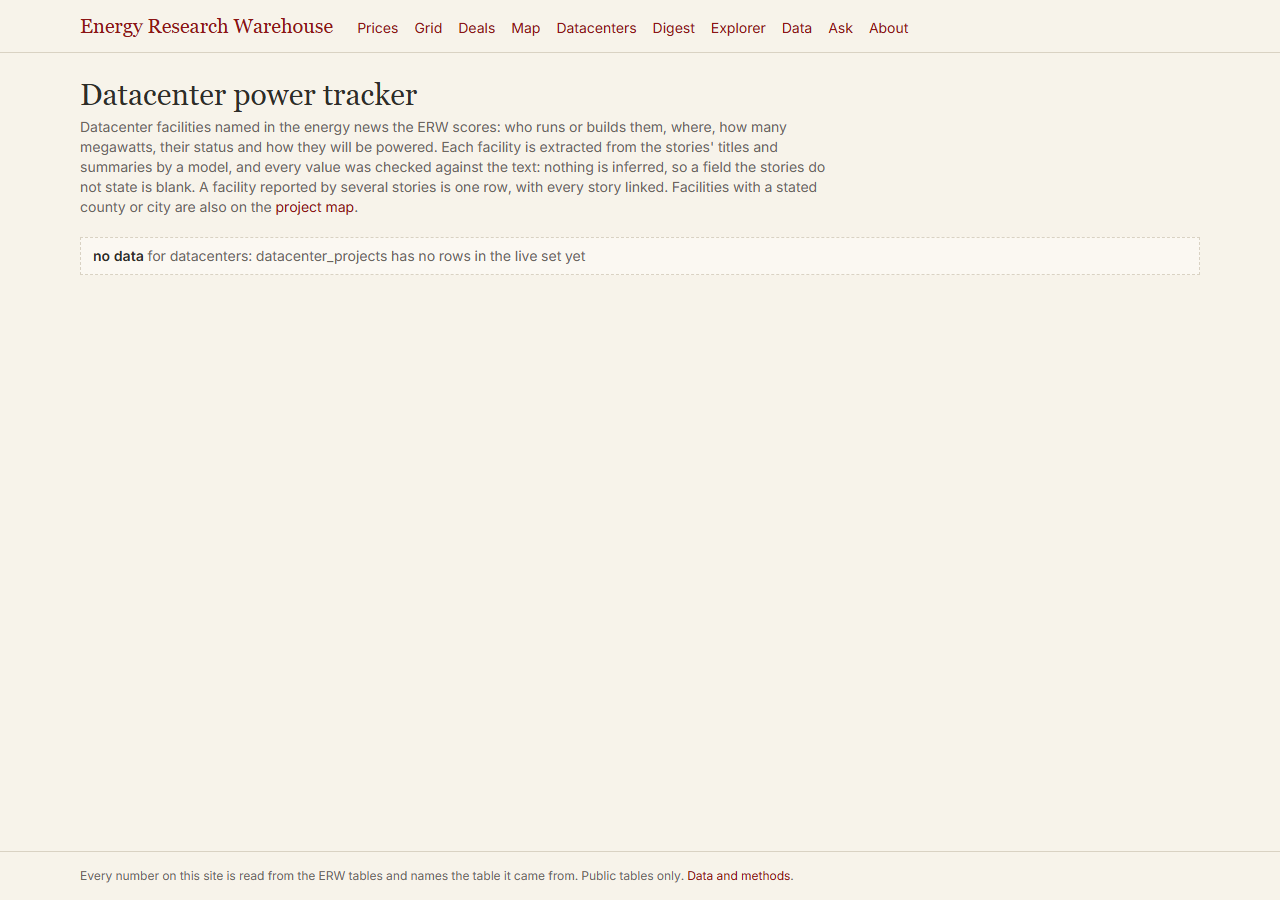
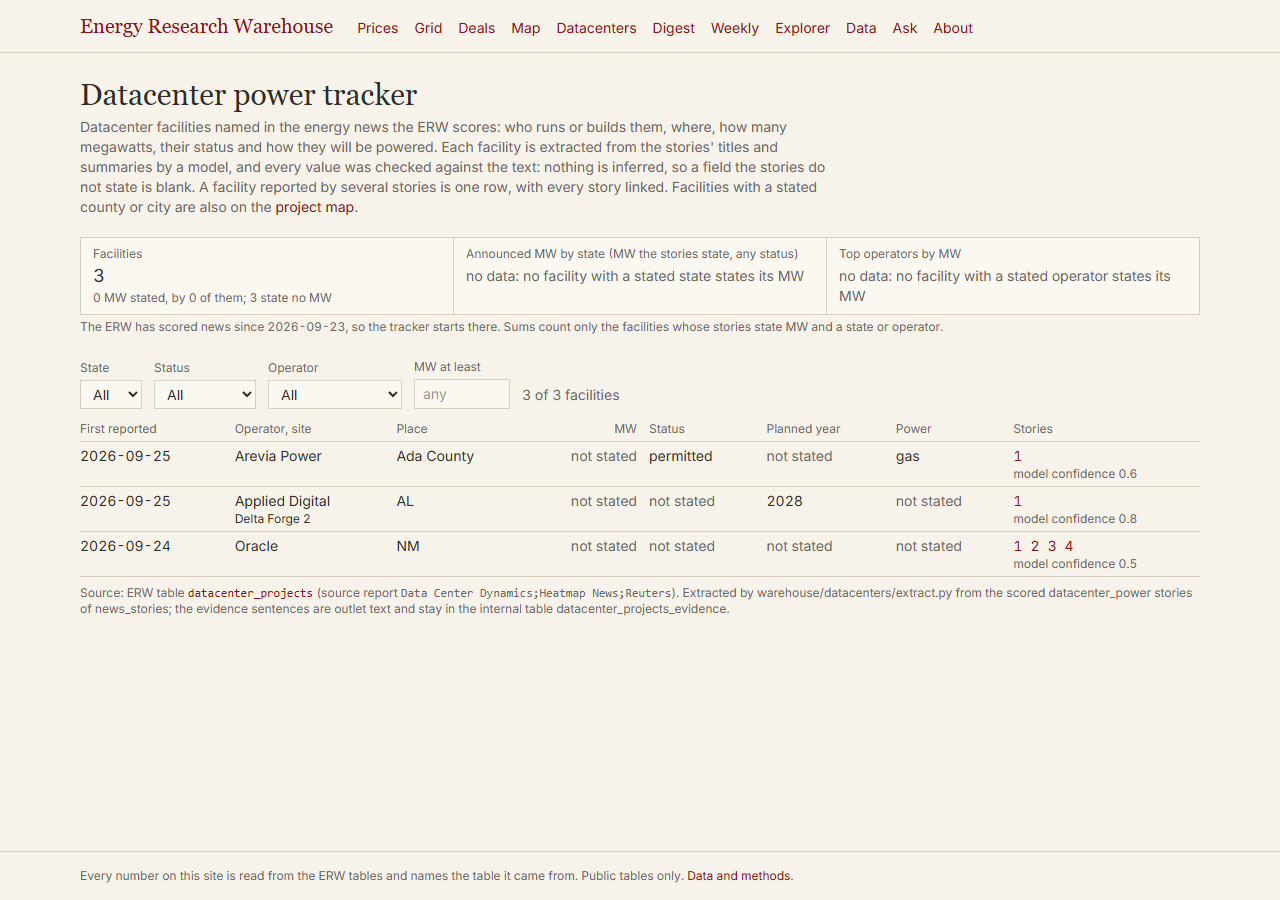
Session 17 Task 5: screenshots, STATUS.md, report
Screenshots of /weekly (new), /datacenters and home; STATUS.md regenerated;
SESSION_17_REPORT.md. API spend this session: USD 0.0407.

diff --git a/SESSION_17_REPORT.md b/SESSION_17_REPORT.md
@@ -1,0 +1,156 @@
+# Session 17 report
+
+Energy Research Warehouse (ERW), session 17, run 2026-09-27 (UTC). **API spend this session: USD 0.0407**, far under the USD 15 stop. No key was printed or committed. The session merged GitHub's daily-run commit, then pushed.
+
+**Three things to know first:**
+- **Task 1 could not be built as written.** ERCOT publishes no list of large-load requests with MW, county, status and dates. The rule that created its status report (Protocol 3.2.7, NPRR1267) requires the report to aggregate requests, with at least three customers per category. Nothing was invented. Instead, a connector watches ERCOT's page weekly and fails loudly until a request-level file appears.
+- **Task 2 stopped halfway.** The news backfill made all 1,512 queries (47,578 items, 0 failed), then Claude Code stopped it because the machine was critically low on memory. As its notice instructed, I did not restart it. Nothing was ingested, scored or extracted. The saved responses allow a restart without querying Google again (commands below).
+- **The Supabase load was not attempted.** It was refused last session. The value check ran against what CI loaded, and all 254 values matched.
+
+## What was built
+
+| Task | Result | API cost | Commit |
+|---|---|---|---|
+| 1 | `warehouse/connectors/ercot_large_load.py`: watches ERCOT's Large Load Integration page; no table (no request-level source) | 0 | `9ccb885` |
+| 2 | `ingest.py --backfill` and `--from-raw`; the backfill run stopped before scoring | 0 | `e5b2920` |
+| 3 | "Energy Week": `warehouse/news/weekly.py`, the Monday workflow, `/weekly`, 2026-W39 | 0.0055 | `e1f4ca9` |
+| 4 | Datacenter status rulings and re-extraction; exact-decimal means; `/weekly` value check; briefing, coverage and live set; platform tools 4 and 14 | 0.0298 + 0.0054 | `2deeeca` |
+| 5 | Screenshots, STATUS.md, this report | 0 | final commit |
+
+## Task 1: ERCOT large-load queue
+
+**What I looked for:** the current ERCOT file, as the prompt says. What exists:
+- **Protocol 3.2.7** (NPRR1267, approved 2025-07-31) requires a monthly Large Load Interconnection Status Report. It aggregates by location, load zone, TSP, load type, request date, energization date and size range, with at least three customers per category, because customer data is confidential.
+- **The report ERCOT actually posts** is a slide deck, "Large Load Interconnection Status Update" (for example `https://www.ercot.com/files/docs/2026/03/12/March-TAC-Report.pdf`). Its numbers are chart images, not text, with no county and no request rows.
+- **"ERCOT Monthly"** states queue totals in prose in only 2 of its 16 issues from February 2025 to June 2026 (November 2025 and April 2026). For example, April 2026: 445.8 GW applied by 2033, of which 321 GW with no studies submitted, 93.7 GW under ERCOT review, 22 GW with Section 9.5 requirements met, 5.9 GW observed energized, and 3.2 GW approved to energize but not operational. That is too irregular for a series.
+- **The Large Load Integration page** links 3 spreadsheets: the Batch Zero Load Information Form, a FAQ, and an RFI exhibit list.
+
+**Decision.** With no rows to publish, there is no `ercot_large_load_queue` table and nothing to merge into `datacenter_projects` or `energy_projects`. `ercot_large_load.py`:
+- reads the Large Load Integration page each week and keeps it raw;
+- looks for a spreadsheet named as a status report or queue;
+- **if there is none**, fails with the reason above and writes nothing. This week's run did exactly that;
+- **if one appears**, reads it into `ercot_large_load_queue`, requiring a county and a MW column, with a harmonized status mapped from ERCOT's status words.
+
+It runs weekly in `run_daily.sh` beside the ISO queues. A coverage rule and a live-set rule are ready for the table.
+
+**Expect a streak issue:** a connector failing three runs in a row opens a GitHub issue, so after three Mondays this one will open one. Close it, or rule it a known source gap, as for SPP and CARB.
+
+## Task 2: news backfill
+
+**`ingest.py --backfill`:**
+- **Queries:** every Google News feed in `feeds.yaml` (18 of them) keeps its `site:` filter and gets one sector's search terms (`BACKFILL_TERMS`: datacenter_power, deal, ppa, nuclear, lng, transmission, policy) and one month's `after:` and `before:` bounds, from 2025-10-01 to 2026-09-22. That is 1,512 queries, one at a time.
+- **Filtering:** stories dated outside the range are dropped; the rest are deduplicated as in the daily ingest, by URL and near-identical title.
+- **The cap:** at most 3,000 stories, taken round-robin over the 84 month-and-sector buckets, so the cap spreads over the whole year.
+- **Provenance:** `feed` records the query that found each story, for example `Reuters energy (via Google News) [backfill lng 2026-01]`.
+
+**A trial** (lng, January 2026, 18 queries) found 325 new stories, mostly from Bloomberg (98), Reuters (94), JPT (36) and the FT (28).
+
+**The run (`20260927T033451Z`).** All 1,512 queries succeeded:
+
+| Sector | Items |
+|---|---|
+| policy | 11,410 |
+| transmission | 9,431 |
+| deal | 8,588 |
+| nuclear | 6,277 |
+| datacenter_power | 5,427 |
+| lng | 5,000 |
+| ppa | 1,445 |
+| **Total** | **47,578** |
+
+While it was deduplicating, Claude Code stopped it for low memory. The stories are written only at the end, so `news_stories.csv` was untouched, and no digest was written. The raw responses are kept in `warehouse/raw/news/20260927T033451Z/`, which the 14-day prune will remove after 2026-10-11.
+
+**Added so the work is not lost:** `--from-raw RUN_ID` rebuilds the same items from those saved responses, with no new queries. Tested: all 1,512 responses give the same 47,578 items in 84 buckets.
+
+**Not reported, because the run did not reach them:** story, cluster, deal and facility counts, and cost.
+- **Estimated cost:** about USD 5 to 6 to score 3,000 stories (at session 16's measured rate), plus about USD 2 to 3 for the two extractors.
+
+**To finish,** when memory allows (the dedup step is the slow, heavy one):
+
+    python warehouse/news/ingest.py --backfill --from-raw 20260927T033451Z
+    python warehouse/news/score.py --days 400 --max-calls 70
+    python warehouse/deals/extract.py --max-calls 200
+    python warehouse/datacenters/extract.py --max-calls 100
+
+## Task 3: Energy Week (tool 14)
+
+**`warehouse/news/weekly.py`** writes `docs/weekly/YYYY-Www.md` and `latest.md` for an ISO week (Monday to Monday, UTC, cut at the run time):
+
+| Section | What it holds |
+|---|---|
+| The five stories of the week | the highest-significance clusters. The model writes only the five headlines; the whys are the stories' scored why lines |
+| Deals of the week | every `energy_deals` row dated in the week |
+| Datacenter announcements | every `datacenter_projects` facility first reported in the week |
+| Numbers of the week | read through `erw`, each with its table: the day-ahead average per ISO main hub over the ISO's local week, and the change from the week before (both weeks must be complete); the highest real-time price of the week, where, and how far each table reaches; Henry Hub, WTI and Brent (last close of the week, last close before it, change); US48 peak demand of the week and its hour |
+
+**Schedule:** `.github/workflows/weekly-brief.yml` runs Mondays at 13:00 UTC, separate from the daily run. The runner has no tables, so it first restores the rolling windows from the Redivis draft and pulls the EIA fuel prices. It commits `docs/weekly` with the daily run's pull-then-commit step. Not yet run on GitHub.
+
+**Site:** `/weekly` (the newest brief and an archive) and `/weekly/[week]`, with nav and home links.
+
+**2026-W39 was generated** (to Sunday 04:42 UTC), after refreshing the local ISO and fuel tables:
+- **Scale:** 845 stories in 747 clusters, 27 deals, 3 datacenter facilities.
+- **Five stories:** TotalEnergies' Absheron FID; Oracle's force majeure; Applied Digital's Alabama datacenter; DOE's USD 1.9 billion for 31 grid projects; Anthropic's cloud deal with Akamai.
+- **Day-ahead averages** fell against the prior week at MISO (-34.92), SPP (-12.48), ISO-NE (-8.18) and NYISO (-6.61), and rose at ERCOT (+1.94) and CAISO (+0.05).
+- **The fuel closes** are those of Monday 2026-09-22, the newest EIA publishes.
+
+## Task 4
+
+**Datacenter status rulings.** The prompt now has an `applied` status (an application filed, not yet granted, which maps to the standard status planned). It also requires the words that state a status, as the code already did.
+
+**Re-extraction:** `extract.py --reextract` over all 28 datacenter stories, 3 calls, USD 0.0298.
+- **Counts:** 3 facilities before and 3 after.
+- **Statuses:** before, permitted 1 and blank 2; after, applied 1, announced 1 and blank 1.
+- **All three session 16 spot-check errors are fixed:**
+  - Arevia Power went from permitted to applied;
+  - its state went from blank to ID (Idaho), so it is now placed at the Ada County point;
+  - Delta Forge 2 went from blank to announced.
+- **Still wrong:** Arevia Power remains the operator as well as the developer, the third error from session 16.
+- **Unchanged:** Oracle (New Mexico).
+- **Kept:** the session 16 tables, in `warehouse/datacenters/history/`.
+
+**Rounding fix.** The first value check found `/weekly` showing 44.29 for ISO-NE's prior week. Supabase gave 44.30, and the exact mean is 44.295: a float sum had landed just under the half.
+- **Fix:** the digest and the weekly brief now compute day-ahead means in exact decimal arithmetic, rounded half up (`brief.mean2`), and the checker does the same.
+- **Result:** the brief was regenerated (USD 0.0054). The weekly changes are now differences of the means as displayed.
+
+**Value check.** `check-values.mjs` now parses `/weekly` and recomputes its 20 numbers from Supabase: 12 weekly day-ahead means, 6 fuel closes, the real-time peak, and the US48 peak with its hour.
+- **Result: 254 of 254 values match**, including 20 of 20 on `/weekly` and 3 on `/datacenters`.
+- **`/map` contributes none,** because Supabase has no `energy_projects` rows (next section).
+
+**What GitHub's daily run 4 did** (manually dispatched on session 16's code; merged here):
+- **The commit step succeeded,** so the session 16 fix works on GitHub.
+- **It loaded:** `energy_deals` (27 rows) and `datacenter_projects` (3, the session 16 version).
+- **It skipped `energy_projects`:** NYISO's queue answered HTTP 202 (the same response the CARB PDF gives), so an input was missing.
+- **`supabase_load` exited 1.** The reason is in the run's log artifact, which needs a GitHub login.
+
+**Also:**
+- `llms.txt` and the chat spec now describe the new datacenter statuses, the weekly brief, and the ERCOT large-load gap.
+- Coverage and the live set have rules for `ercot_large_load_queue`.
+- The validator passes every changed table, and coverage is rebuilt.
+- `docs/platform-tools.md` has tools 4 and 14.
+
+## Task 5
+
+- **Screenshots:** `weekly-desktop.png` and `-mobile.png` (new), plus `datacenters-*` and `home-*` (re-shot).
+- **STATUS.md** regenerated.
+
+## Decisions
+
+1. **No ERCOT large-load table and no merges** (Task 1): there is no request-level source, and aggregates cannot be placed on a map as projects.
+2. **The weekly brief has its own workflow** at the requested hour. The daily run starts at 14:00, and putting the brief in it would move the brief's time.
+3. **The backfill's queries come from the Google News feeds' `site:` filters,** plus sector terms, as the prompt says. `feed_sector` stays the feed's own beat, so the query's sector does not steer the scorer's sector.
+4. **The Task 2 extractions would use the rulings of Task 4.** They never ran, so this had no effect.
+5. **`run_status.csv` was merged as the union of rows,** and `sources.csv` by source, keeping every table of each.
+
+## Errors hit
+
+1. **The backfill was stopped for low memory** (above).
+2. **Heredoc quoting broke two patches;** they were rewritten through files.
+3. **Float rounding in the weekly means** (fixed, Task 4).
+4. **Merge conflicts on `run_status.csv` and `sources.csv`,** resolved without dropping a row.
+
+## Open questions for the human
+
+1. **Finish the backfill** with the four commands in Task 2, before 2026-10-11 when the raw responses are pruned. Expect about USD 7 to 9.
+2. **Run the daily workflow with queues when NYISO's queue answers** (it gave HTTP 202 today). Then `energy_projects` reaches Supabase and `/map` shows data. Also check why `supabase_load` exited 1 in run 4: its log is in the run's artifact.
+3. **The ERCOT large-load watch will open a streak issue after three Mondays.** Keep it as a reminder, or rule it a known gap?
+4. **The weekly workflow has not run on GitHub yet.** Its first scheduled run is Monday 2026-09-28 at 13:00 UTC; it needs the EIA, Anthropic and Redivis secrets the daily run uses.

diff --git a/STATUS.md b/STATUS.md
@@ -1,23 +1,23 @@
 # ERW status
 
-Generated 2026-09-27 03:23 UTC by `warehouse/metadata/build_status.py`, which the daily run regenerates after coverage; the daily workflow commits it. Every number below is read from `warehouse/metadata/coverage.csv`, `warehouse/metadata/run_status.csv` or Supabase.
+Generated 2026-09-27 04:47 UTC by `warehouse/metadata/build_status.py`, which the daily run regenerates after coverage; the daily workflow commits it. Every number below is read from `warehouse/metadata/coverage.csv`, `warehouse/metadata/run_status.csv` or Supabase.
 
 ## Tables
 
 | | Tables | Rows |
 |---|---|---|
-| All | 86 | 3,802,684 |
-| Public | 78 | 3,680,082 |
+| All | 86 | 3,802,681 |
+| Public | 78 | 3,680,079 |
 | Internal (never shown publicly) | 8 | 122,602 |
 
-Newest table refresh: 2026-09-27 03:19:47 UTC. Validator: 86 of 86 tables pass. Per-table detail: [`docs/coverage.md`](docs/coverage.md).
+Newest table refresh: 2026-09-27 04:31:03 UTC. Validator: 86 of 86 tables pass. Per-table detail: [`docs/coverage.md`](docs/coverage.md).
 
 ## Last runs
 
 | Workflow | Last run (UTC) | Outcome |
 |---|---|---|
 | daily prices, on GitHub | 2026-09-27 03:22 | 82 ok, 21 failed, 10 gap, 3 skipped (table results of that day) |
-| daily run, local | 2026-09-27 02:23 | 121 ok, 8 failed, 8 gap (table results of that day) |
+| daily run, local | 2026-09-27 04:42 | 137 ok, 10 failed, 10 gap (table results of that day) |
 | latest prices, every 15 minutes | 2026-09-27 00:54 | 39 hubs and zones in `latest_prices` (newest retrieval) |
 
 A table that failed is not written that day; nothing partial is. The reasons are in `warehouse/metadata/run_status.csv`.
@@ -27,9 +27,9 @@ A table that failed is not written that day; nothing partial is. The reasons are
 | Table | Run | Reason |
 |---|---|---|
 | `carb_auction_allowance_prices` | 20260927T031351Z | RuntimeError: CARB auction summary PDF failed after 4 attempts: RuntimeError('CARB auction summary PDF HTTP 202') |
-| `news_stories` | 20260927T031740Z | RuntimeError("feed Hydrogen Insight failed after 3 attempts: RuntimeError('HTTP 503')") |
+| `ercot_large_load_queue` | 20260927T033115Z | iso_prices.SourceGap: ERCOT publishes no request-level large-load list: https://www.ercot.com/services/rq/large-load-integration links 3 spreadsheets, none a st |
 | `nyiso_interconnection_queue` | 20260927T031605Z | RuntimeError: nyiso queue failed after 4 attempts: RuntimeError('GET https://www.nyiso.com/documents/20142/1407078/NYISO-Interconnection-Queue.xlsx failed: <Res |
-| `spp_rtm_hub_prices` | 20260927T030605Z | SourceGap: SPP has no daily RTBM file for 2026-09-23 and its interval file for 2026-09-23 16:20:00-05:00 is missing: SPP RTBM interval 2026-09-23 16:20:00-05:00 |
+| `spp_rtm_hub_prices` | 20260927T034319Z | SourceGap: SPP has no daily RTBM file for 2026-09-23 and its interval file for 2026-09-23 16:20:00-05:00 is missing: SPP RTBM interval 2026-09-23 16:20:00-05:00 |
 
 ## Open gaps
 
